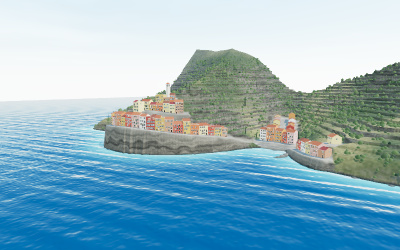
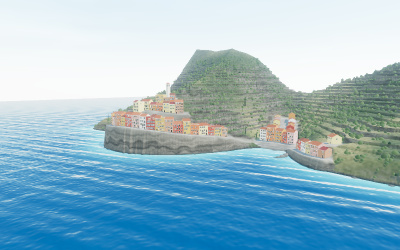
Examples: Optional light probe GI and bloom for the village.
An island-wide LightProbeGrid — six probes stacked per column of a
denser lattice — bakes on first enable and rebakes ( debounced ) when
the seed or the sun moves. The terrain renders double-sided so probes
buried under the hill capture the ground's own soil shadow instead of
sky leaking through culled backfaces; the sky fill steps back while
the probes hold the village's ambient. GUI gains global illumination
and show probes toggles, plus a soft bloom on the HDR scene colour
for sun glitter and dusk-lit windows.

diff --git a/examples/webgpu_generator_village.html b/examples/webgpu_generator_village.html
@@ -21,6 +21,7 @@
 
 			<small>
 				A procedurally generated Ligurian cliffside village, in the manner of the Cinque Terre.
+				Optional baked global illumination via an island-wide light probe grid.
 			</small>
 		</div>
 
@@ -38,16 +39,21 @@
 		<script type="module">
 
 			import * as THREE from 'three/webgpu';
+			import { pass } from 'three/tsl';
 
 			import { Inspector } from 'three/addons/inspector/Inspector.js';
 			import { OrbitControls } from 'three/addons/controls/OrbitControls.js';
 			import { SkyMesh } from 'three/addons/objects/SkyMesh.js';
+			import { bloom } from 'three/addons/tsl/display/BloomNode.js';
+			import { LightProbeGrid } from 'three/addons/lighting/LightProbeGrid.js';
+			import { LightProbeGridHelper } from 'three/addons/helpers/LightProbeGridHelper.js';
 			import { VillageGenerator } from 'three/addons/generators/VillageGenerator.js';
 			import { createHouseMaterial } from 'three/addons/generators/village/HouseGenerator.js';
 
-			let camera, scene, renderer, controls;
+			let camera, scene, renderer, controls, renderPipeline;
 			let villageGroup, materials, village;
 			let sky, sunLight, pmremGenerator, envScene;
+			let probes, probesHelper, rebakeTimer = null, baking = false;
 
 			// reused by updateSun(): the current sun direction and the key-light
 			// colours it blends between as the sun nears the horizon or climbs high
@@ -57,7 +63,9 @@
 
 			const parameters = {
 				seed: 1,
-				timeOfDay: 10.5 // hours: 6 sunrise, 12 noon, 18 sunset
+				timeOfDay: 10.5, // hours: 6 sunrise, 12 noon, 18 sunset
+				globalIllumination: false, // bakes a light probe grid on first enable
+				showProbes: false
 			};
 
 			init();
@@ -125,14 +133,107 @@
 				village = new VillageGenerator( { seed: parameters.seed } );
 				generateVillage();
 
+				// bloom: a soft glow on the brightest areas — sun glitter on the swell,
+				// lit windows at dusk — run on the linear HDR scene colour before tone
+				// mapping folds it back to display range
+
+				renderPipeline = new THREE.RenderPipeline( renderer );
+
+				const scenePassColor = pass( scene, camera ).getTextureNode( 'output' );
+				const bloomPass = bloom( scenePassColor, 0.03, 0.0, 0.0 );
+
+				renderPipeline.outputNode = scenePassColor.add( bloomPass );
+
 				// parameters
 
 				const gui = renderer.inspector.createParameters( 'Village' );
 				gui.add( parameters, 'seed', 0, 100, 1 ).onChange( generateVillage );
 				gui.add( parameters, 'timeOfDay', 6, 18, 0.1 ).name( 'time of day' ).onChange( updateSun );
+				gui.add( parameters, 'globalIllumination' ).name( 'global illumination' ).onChange( updateGI );
+				gui.add( parameters, 'showProbes' ).name( 'show probes' ).onChange( updateGI );
 				gui.add( renderer, 'toneMappingExposure', 0.01, 1 ).name( 'exposure' );
+				gui.add( bloomPass.strength, 'value', 0, 1 ).name( 'bloom' );
 
 				window.addEventListener( 'resize', onWindowResize );
+
+			}
+
+			// bakes ( or rebakes ) the light probe grid over the whole island: stacks
+			// of six probes rise through every column of the lattice, so wherever the
+			// terrain surface falls, dark buried probes shade the ground's own soil
+			// shadow ( the terrain renders double-sided so they can't see the sky )
+			// and the lit ones above carry the bounce. the sky fill steps back while
+			// the probes hold the ambient, so the bounce reads instead of
+			// double-counting.
+
+			async function bakeProbes() {
+
+				if ( baking ) return; // a bake several seconds long must not overlap itself
+
+				baking = true;
+
+				try {
+
+					if ( probes ) {
+
+						scene.remove( probes );
+						probes.dispose();
+
+					}
+
+					if ( probesHelper ) probesHelper.visible = false; // never bake the helper into the probes
+
+					probes = new LightProbeGrid( 460, 120, 310, 30, 6, 20 );
+					probes.position.set( - 10, 56, - 70 );
+					probes.falloff = 25;
+					await probes.bake( renderer, scene, { cubemapSize: 12, near: 0.5, far: 1200 } );
+					scene.add( probes );
+
+					if ( ! probesHelper ) {
+
+						probesHelper = new LightProbeGridHelper( probes );
+						scene.add( probesHelper );
+
+					} else {
+
+						probesHelper.probes = probes;
+						probesHelper.update();
+
+					}
+
+				} finally {
+
+					baking = false;
+
+				}
+
+			}
+
+			async function updateGI() {
+
+				if ( ( parameters.globalIllumination || parameters.showProbes ) && ! probes ) await bakeProbes();
+
+				if ( probes ) probes.visible = parameters.globalIllumination;
+				if ( probesHelper ) probesHelper.visible = parameters.showProbes;
+
+				scene.environmentIntensity = parameters.globalIllumination ? 0.2 : 0.35; // the probes take over most of the sky fill inside their volume
+
+			}
+
+			// the probes hold a moment of light: rebake once the sun or the seed
+			// settles, debounced so a slider drag bakes once, not every step
+
+			function scheduleRebake() {
+
+				if ( ! probes ) return;
+
+				if ( rebakeTimer !== null ) clearTimeout( rebakeTimer );
+				rebakeTimer = setTimeout( async () => {
+
+					await bakeProbes();
+					updateGI();
+
+				}, 300 );
 
 			}
 
@@ -170,6 +271,8 @@
 				sky.showSunDisc.value = true;
 				scene.add( sky );
 
+				scheduleRebake();
+
 			}
 
 			function generateVillage() {
@@ -179,6 +282,8 @@
 				village.parameters.seed = parameters.seed;
 				villageGroup = village.build( materials );
 				scene.add( villageGroup );
+
+				scheduleRebake();
 
 			}
 
@@ -195,7 +300,7 @@
 
 				controls.update();
 
-				renderer.render( scene, camera );
+				renderPipeline.render();
 
 			}
 

diff --git a/examples/jsm/generators/VillageGenerator.js b/examples/jsm/generators/VillageGenerator.js
@@ -3,6 +3,7 @@ import {
 	BufferAttribute,
 	BufferGeometry,
 	ConeGeometry,
+	DoubleSide,
 	Float32BufferAttribute,
 	Group,
 	IcosahedronGeometry,
@@ -1247,6 +1248,7 @@ function createTerrainMaterial() {
 
 	const material = new MeshStandardNodeMaterial();
 	material.metalness = 0;
+	material.side = DoubleSide; // a probe baked under the hill must see dark ground, not the sky through culled backfaces
 
 	const distance = positionWorld.distance( cameraPosition );
 	const near = smoothstep( 130, 20, distance ); // the finest grit only resolves close in
